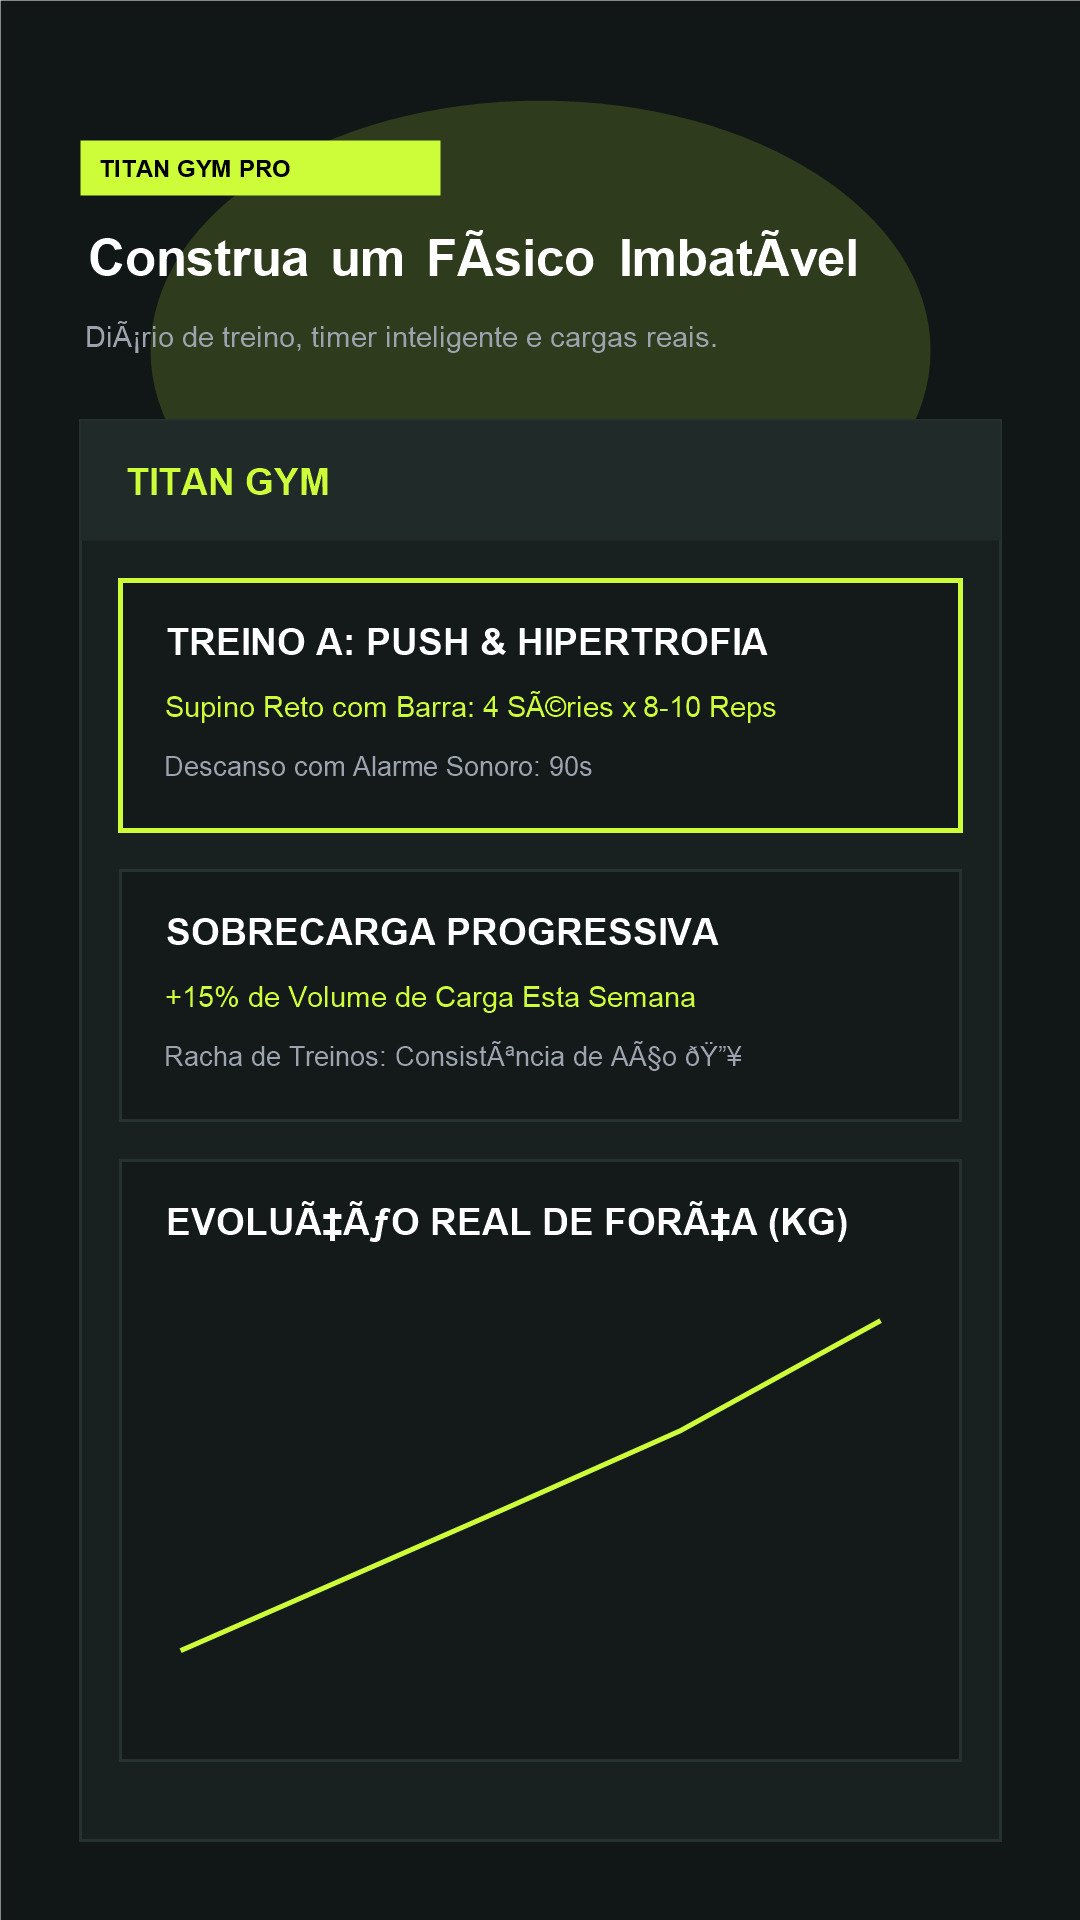
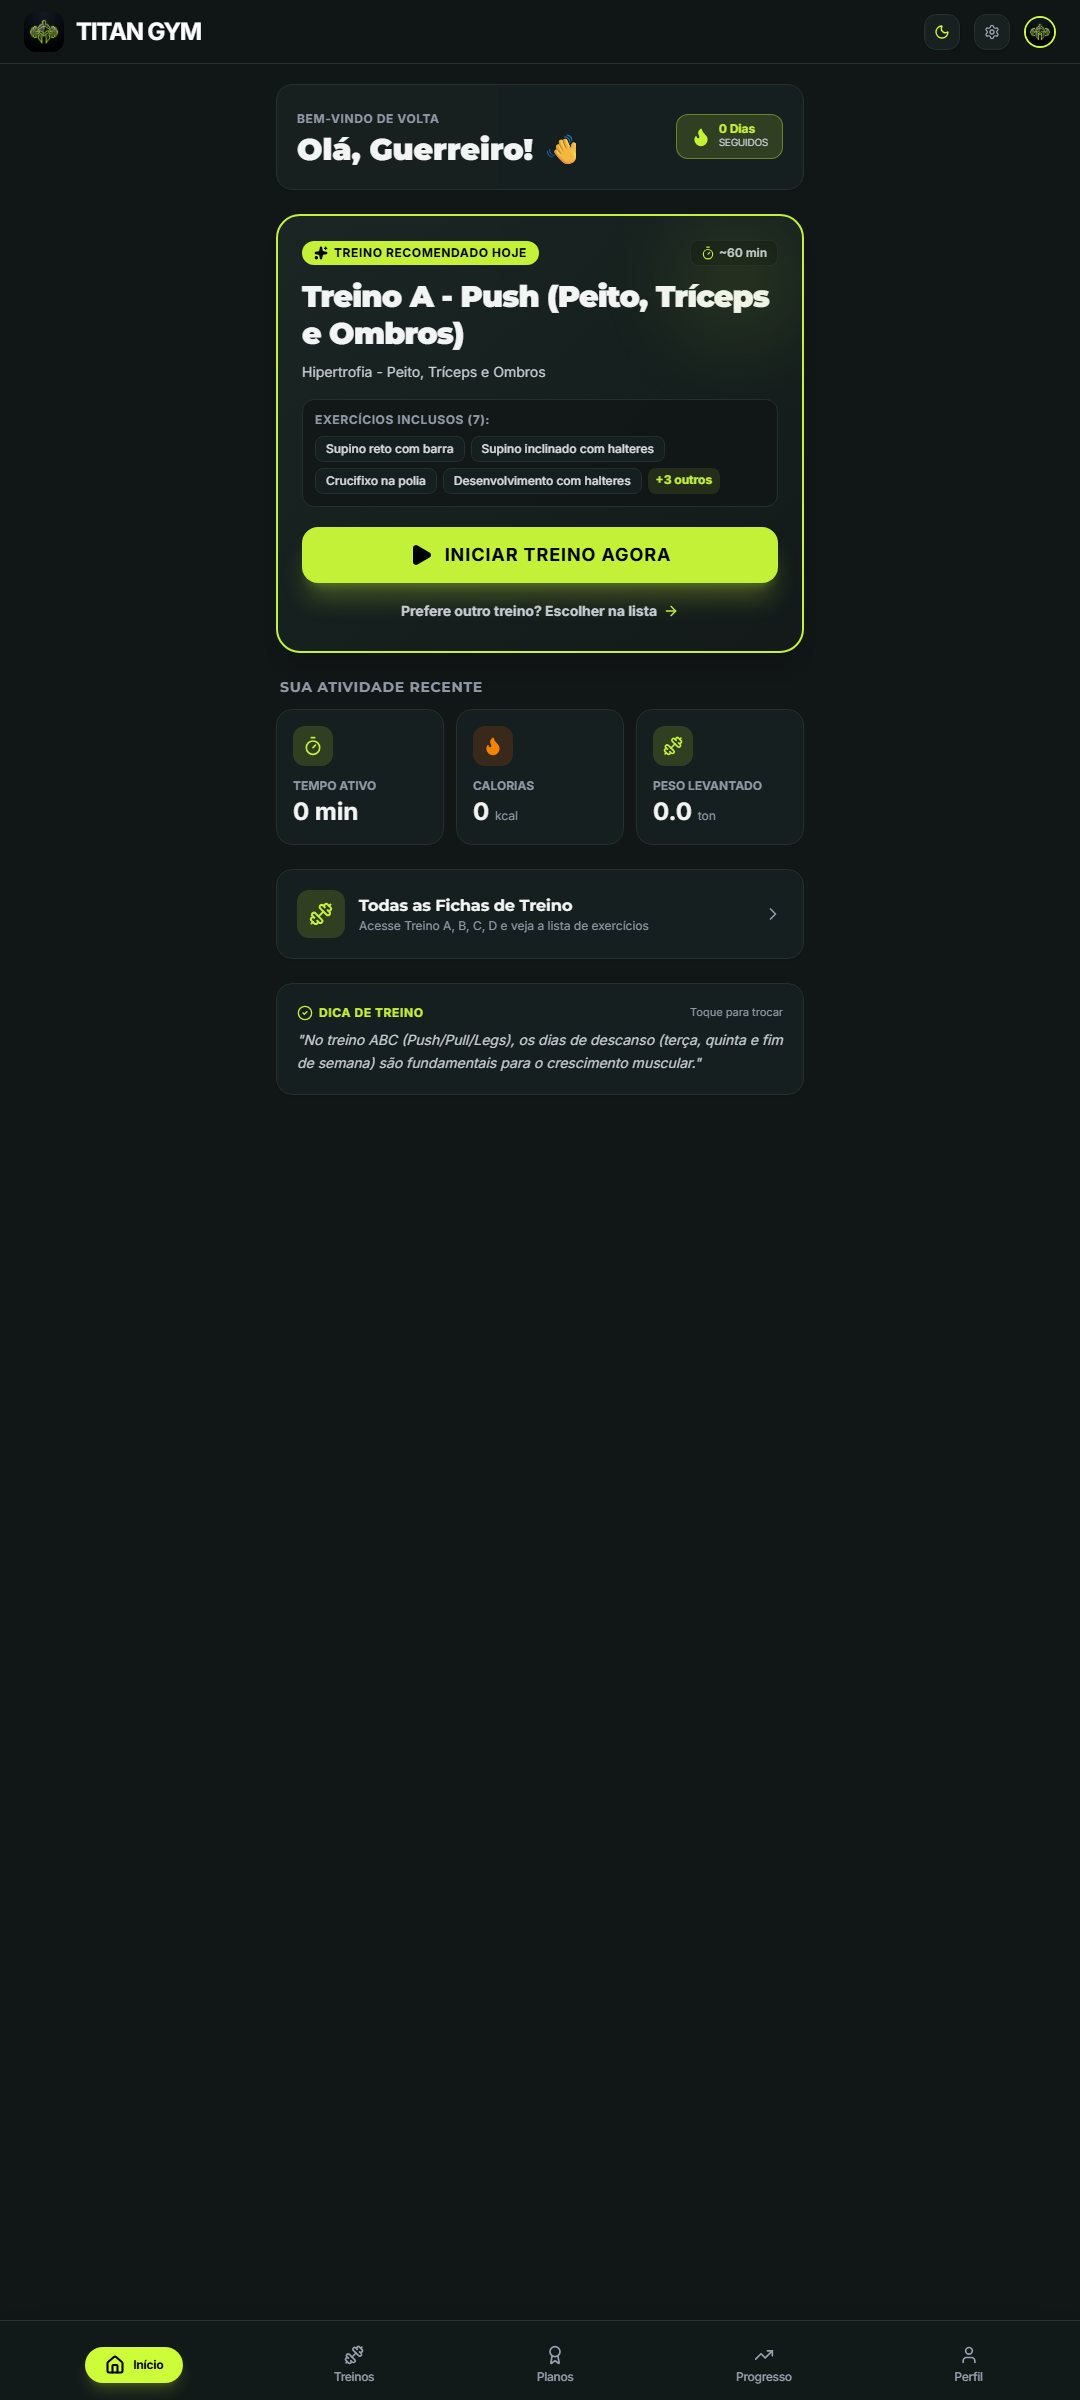
chore: replace mock store screenshots with pixel-perfect authentic app UI captures

diff --git a/src/App.tsx b/src/App.tsx
@@ -33,11 +33,19 @@ export default function App() {
 
   // First-time onboarding status
   const [hasCompletedOnboarding, setHasCompletedOnboarding] = useState<boolean>(() => {
+    if (typeof window !== "undefined" && window.location.search.includes("skip_onboarding=true")) {
+      return true;
+    }
     return localStorage.getItem("titan_onboarding_completed") === "true";
   });
 
   // Tab route state
   const [activeTab, setActiveTab] = useState<string>(() => {
+    if (typeof window !== "undefined") {
+      const params = new URLSearchParams(window.location.search);
+      const tabParam = params.get("tab");
+      if (tabParam) return tabParam;
+    }
     return localStorage.getItem("titan_active_tab") || "home";
   });
 
